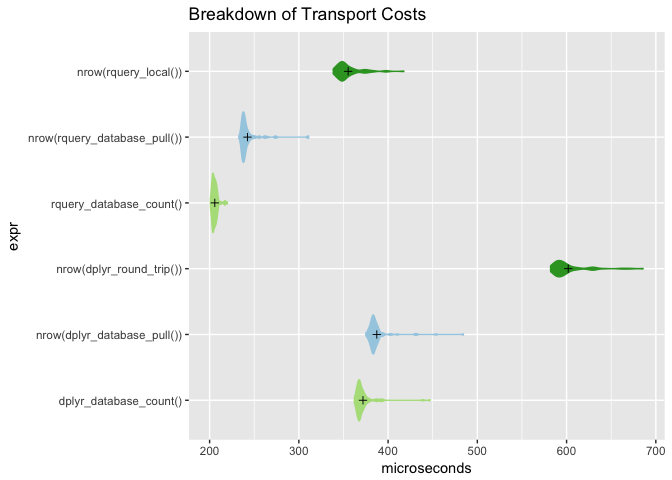
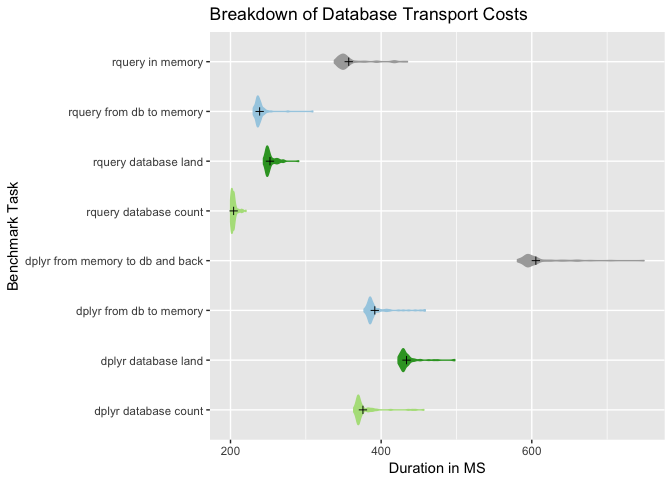
replot

diff --git a/extras/plotexample.md b/extras/plotexample.md
@@ -4,6 +4,27 @@ Nina Zumel
 January 8, 2018
 
 ``` r
+knitr::opts_chunk$set(echo = TRUE)
+library(dplyr)
+```
+
+    ## 
+    ## Attaching package: 'dplyr'
+
+    ## The following objects are masked from 'package:stats':
+    ## 
+    ##     filter, lag
+
+    ## The following objects are masked from 'package:base':
+    ## 
+    ##     intersect, setdiff, setequal, union
+
+``` r
+library(ggplot2)
+library(wrapr)
+
+source("plotbenchmark.R")
+
 timings = readRDS("qtimings.RDS")
 timings$expr <- as.character(timings$expr)
 
@@ -12,12 +33,13 @@ highlightcolor = "#33a02c"
 backgroundcolor = "#a6cee3"
 reruncolor = "#b2df8a"
 greycolor = "darkgrey"
+```
 
-
-runs <- c("nrow(data.table_local())", 
-          "nrow(rquery_local())",
-          "nrow(dplyr_local())",
-          "nrow(dplyr_round_trip())")
+``` r
+runs <- c("data.table in memory", 
+          "rquery in memory",
+          "dplyr in memory",
+          "dplyr from memory to db and back")
 colormap = runs := c(highlightcolor,
                      highlightcolor,
                      highlightcolor,
@@ -33,17 +55,21 @@ plotbenchmark(tr, colormap,
 ![](plotexample_files/figure-markdown_github/unnamed-chunk-1-1.png)
 
 ``` r
-runs <- c("nrow(data.table_local())", 
-          "nrow(rquery_local())",
-          "rquery_database_count()",
-          "nrow(dplyr_local())",
-          "nrow(dplyr_round_trip())",
-          "dplyr_database_count()")
+runs <- c("data.table in memory", 
+          "rquery in memory",
+          "rquery database count",
+          "rquery database land",
+          "dplyr in memory",
+          "dplyr from memory to db and back",
+          "dplyr database count",
+          "dplyr database land")
 colormap = runs := c(greycolor,
                      greycolor,
                      highlightcolor,
+                     highlightcolor,
                      greycolor,
                      greycolor,
+                     highlightcolor,
                      highlightcolor)
 
 tr <- timings[timings$expr %in% runs, , drop=FALSE]
@@ -56,21 +82,25 @@ plotbenchmark(tr, colormap,
 ![](plotexample_files/figure-markdown_github/unnamed-chunk-1-2.png)
 
 ``` r
-followups <- c("nrow(rquery_local())",
-               "nrow(rquery_database_pull())", 
-               "rquery_database_count()", 
-               "nrow(dplyr_round_trip())",
-               "nrow(dplyr_database_pull())",
-               "dplyr_database_count()")     
-colormap = followups := c(highlightcolor,
+followups <- c("rquery in memory",
+               "rquery from db to memory", 
+               "rquery database land", 
+               "rquery database count", 
+               "dplyr from memory to db and back",
+               "dplyr from db to memory",
+               "dplyr database land",
+               "dplyr database count")
+colormap = followups := c(greycolor,
                           backgroundcolor,
-                          reruncolor,
                           highlightcolor,
+                          reruncolor,
+                          greycolor,
                           backgroundcolor,
+                          highlightcolor,
                           reruncolor)
 tf <- timings[timings$expr %in% followups, , drop=FALSE]
 tf$expr <- factor(tf$expr, levels = rev(followups))
-plotbenchmark(tf, colormap, "Breakdown of Transport Costs")
+plotbenchmark(tf, colormap, "Breakdown of Database Transport Costs")
 ```
 
 ![](plotexample_files/figure-markdown_github/unnamed-chunk-1-3.png)
